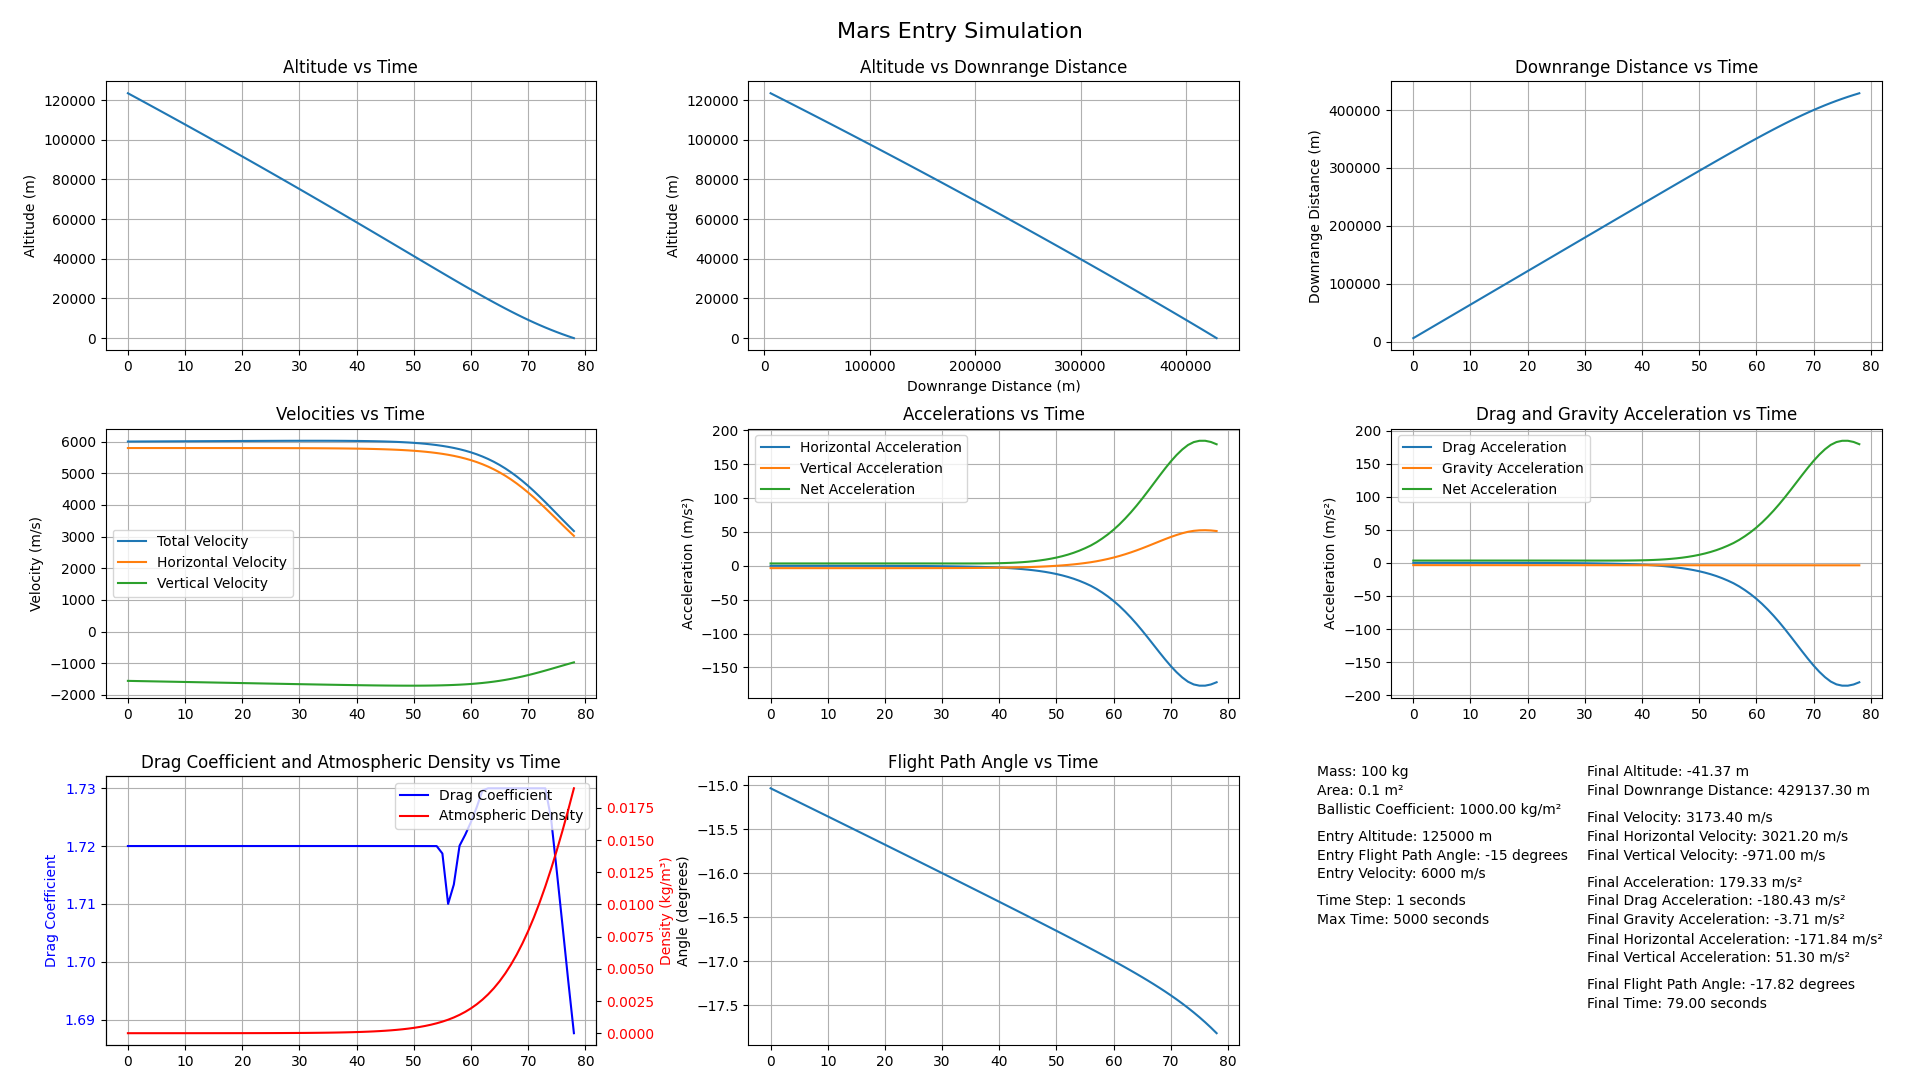
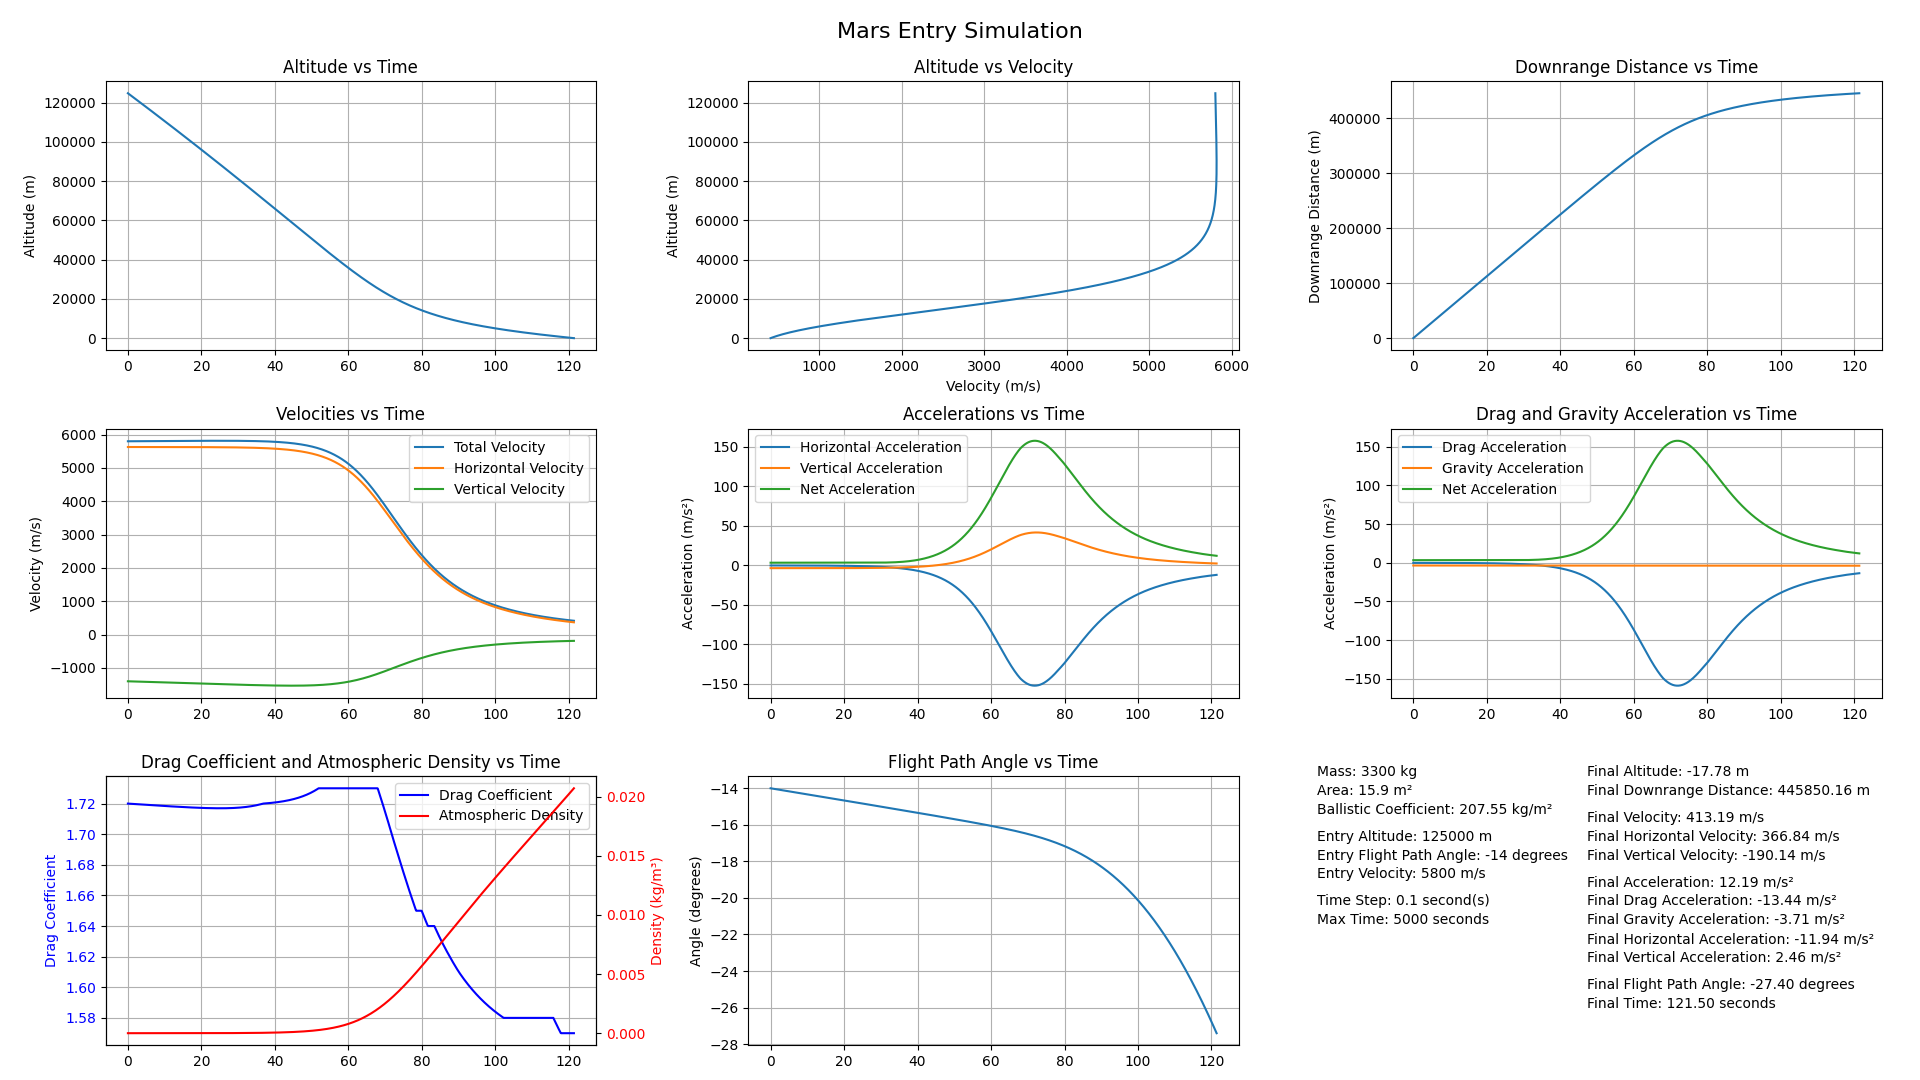
Ballistic coefficient of 0.0001 requires time step of 0.1 or less

diff --git a/Project/sim.py b/Project/sim.py
@@ -2,7 +2,7 @@ import utils
 import math
 import matplotlib.pyplot as plt
 
-def simulate(time_step=None, time_max=None, mass=None, area=None, entry_altitude=None, entry_flight_path_angle=None, entry_velocity=None):
+def simulate(time_step=None, time_max=None, mass=None, area=None, entry_altitude=None, entry_flight_path_angle=None, entry_velocity=None, print_debug=False):
     if time_step is None:
         time_step = 1 # seconds
     if time_max is None:
@@ -10,7 +10,7 @@ def simulate(time_step=None, time_max=None, mass=None, area=None, entry_altitude
     if mass is None:
         mass = 1000 # kg
     if area is None:
-        area = 0.1 # m^2
+        area = 50 # m^2
     if entry_altitude is None:
         entry_altitude = 125000
     if entry_flight_path_angle is None:
@@ -43,6 +43,16 @@ def simulate(time_step=None, time_max=None, mass=None, area=None, entry_altitude
     grav_accs = []
     drag_coeffs = []
     atm_densities = []
+
+    if print_debug:
+        print(f"Mass: {mass} kg")
+        print(f"Area: {area} m^2")
+        print(f"Ballistic Coefficient: {ballistic_coefficient} kg/m^2")
+        print(f"Entry Altitude: {entry_altitude} m")
+        print(f"Entry Flight Path Angle: {entry_flight_path_angle} degrees")
+        print(f"Entry Velocity: {entry_velocity} m/s")
+        print(f"Time Step: {time_step} seconds")
+        print(f"Max Time: {time_max} seconds")
 
     t = 0
     while t < time_max and altitude > 0:
@@ -82,7 +92,7 @@ def simulate(time_step=None, time_max=None, mass=None, area=None, entry_altitude
         drag_coeffs.append(drag_coeff)
         atm_densities.append(atm_density)
         
-        #print(f"t: {t:.2f}, altitude: {altitude:.2f}, downrange_distance: {downrange_distance:.2f}, velocity: {velocity:.2f}, v_x: {v_x:.2f}, v_y: {v_y:.2f}, a_x: {a_x:.2f}, a_y: {a_y:.2f}, net_acc: {net_acc:.2f}, drag_acc: {drag_acc:.2f}, grav_acc: {grav_acc:.2f}, flight_path_angle: {flight_path_angle:.2f}")
+        if (print_debug): print(f"t: {t:.2f}, altitude: {altitude:.2f}, downrange_distance: {downrange_distance:.2f}, velocity: {velocity:.2f}, v_x: {v_x:.2f}, v_y: {v_y:.2f}, a_x: {a_x:.2f}, a_y: {a_y:.2f}, net_acc: {net_acc:.2f}, drag_acc: {drag_acc:.2f}, grav_acc: {grav_acc:.2f}, flight_path_angle: {flight_path_angle:.2f}")
         
         t += time_step
     
@@ -128,7 +138,7 @@ def simulate(time_step=None, time_max=None, mass=None, area=None, entry_altitude
         }
     }
 
-def plot(data):
+def plot(data, filename='mars_entry_simulation.png', show=False):
     times = data['times']
     altitudes = data['altitudes']
     velocities = data['velocities']
@@ -157,11 +167,11 @@ def plot(data):
     plt.ylabel('Altitude (m)')
     plt.grid(True)
 
-    # Plot 1,2: Altitude vs Downrange Distance
+    # Plot 1,2: Altitude vs. Velocity
     plt.subplot(3, 3, 2)
-    plt.plot(downrange_dists, altitudes)
-    plt.title('Altitude vs Downrange Distance')
-    plt.xlabel('Downrange Distance (m)')
+    plt.plot(velocities, altitudes)
+    plt.title('Altitude vs Velocity')
+    plt.xlabel('Velocity (m/s)')
     plt.ylabel('Altitude (m)')
     plt.grid(True)
 
@@ -238,7 +248,7 @@ def plot(data):
     plt.text(-0.15, 0.69, f"Entry Flight Path Angle: {params['entry_flight_path_angle']} degrees", fontsize=10)
     plt.text(-0.15, 0.62, f"Entry Velocity: {params['entry_velocity']} m/s", fontsize=10)
     
-    plt.text(-0.15, 0.52, f"Time Step: {params['time_step']} seconds", fontsize=10)
+    plt.text(-0.15, 0.52, f"Time Step: {params['time_step']} second(s)", fontsize=10)
     plt.text(-0.15, 0.45, f"Max Time: {params['time_max']} seconds", fontsize=10)
 
     # Final values
@@ -263,11 +273,19 @@ def plot(data):
     plt.subplots_adjust(left=0.055, right=0.98, top=0.925, bottom=0.032, hspace=0.29, wspace=0.31)
 
     # Save the plot
-    plt.savefig('mars_entry_simulation.png')
-    #plt.show()
+    plt.savefig(filename)
+    if show: plt.show()
     plt.close()
 
 # Example usage
 if __name__ == "__main__":
-    sim_data = simulate()
+    sim_data = simulate(
+        time_step=0.1,
+        time_max=5000,
+        mass=3300,
+        area=15.9,
+        entry_altitude=125000,
+        entry_flight_path_angle=-14,
+        entry_velocity=5800
+    )
     plot(sim_data)

diff --git a/Project/ballistic-coefficient.py b/Project/ballistic-coefficient.py
@@ -1,0 +1,55 @@
+import sim
+import matplotlib.pyplot as plt
+import numpy as np
+
+time_step = 0.1
+time_max = 5000
+entry_altitude = 125000
+entry_flight_path_angle = -15
+entry_velocity = 6000
+
+area = 10
+masses = [0.001,0.01,0.1,1,10,100,1000,4444,10000,100000,1000000]  # kg
+ballistic_coefficients = [mass / area for mass in masses]
+terminal_velocities = []
+
+for mass in masses:
+    sim_data = sim.simulate(
+        time_step=time_step,
+        time_max=time_max,
+        mass=mass,
+        area=area,
+        entry_altitude=entry_altitude,
+        entry_flight_path_angle=entry_flight_path_angle,
+        entry_velocity=entry_velocity,
+        print_debug=False,
+    )
+    sim.plot(sim_data, filename=f"Ballistic-Coefficient-{str(mass).replace(".", "")}kgm2")
+    terminal_velocities.append(sim_data['final_values']['velocity'])
+    print(f"Mass: {mass} kg, Terminal Velocity: {sim_data['final_values']['velocity']:.2f} m/s")
+
+# Plot in plt using log scale
+plt.figure(figsize=(10, 6))
+plt.plot(ballistic_coefficients, terminal_velocities, marker='o')
+plt.xscale('log')
+plt.yscale('log')
+plt.xlabel('Ballistic Coefficient (kg/m^2)')
+plt.ylabel('Terminal Velocity (m/s)')
+plt.title('Ballistic Coefficient vs Terminal Velocity')
+plt.grid(True)
+plt.annotate('Starship', xy=(masses[7], terminal_velocities[7]), xytext=(masses[7]*1.5, terminal_velocities[7]*1.5))
+plt.savefig('ballistic_coefficient_vs_terminal_velocity_log.png')
+plt.show()
+plt.close()
+
+# now without log scale
+plt.figure(figsize=(10, 6))
+plt.plot(ballistic_coefficients, terminal_velocities, marker='o')
+plt.xlabel('Ballistic Coefficient (kg/m^2)')
+plt.ylabel('Terminal Velocity (m/s)')
+plt.title('Ballistic Coefficient vs Terminal Velocity')
+plt.grid(True)
+plt.annotate('Starship', xy=(masses[7], terminal_velocities[7]), xytext=(masses[7]*1.5, terminal_velocities[7]*1.5))
+plt.savefig('ballistic_coefficient_vs_terminal_velocity_linear.png')
+plt.show()
+plt.close()
